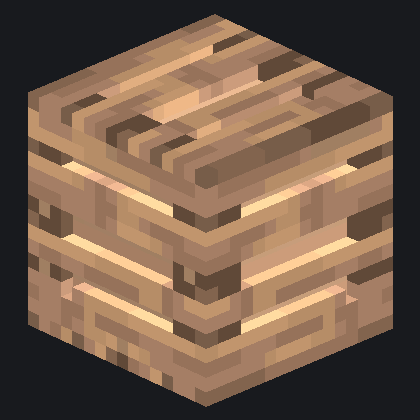
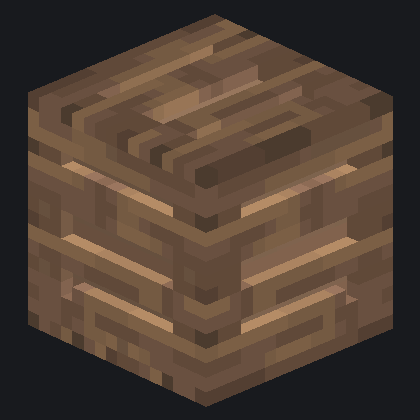
Texture-baked blocks in their own colours, at the texture's own brightness
Planks (oak, spruce), cobble, furnace, crafting table and bookshelf get the
same treatment the oak log got: the tracer reads each voxel's own palette
colour ("colour": "palette") instead of one flat colour per block, and the
bake keeps the texture's own mean (albedo=None) while _delight still lifts
the painted shadow off carved texels.

ALBEDO_TARGET removed: it cited no source, and nothing read its result
until a model was flagged palette (the tracer used the cell colour). Masks
are unchanged; only palettes and the flag. Measured on the cosy cabin
(512 frames, nee 1, mean linear luminance of the accumulated radiance):
within +0.3..+2.3 % of the flat-colour render.

diff --git a/util/claude_models.py b/util/claude_models.py
@@ -166,15 +166,16 @@ def _face_map(face, u, v, d):
 
 LUMW = np.array([0.2126, 0.7152, 0.0722])
 
-# Physical mean albedo per material family, LINEAR (what pathAlbedo
-# produces). Game textures are painted to be DISPLAYED, not to be used
-# as reflectance: raw oak planks linearize to 0.136, about 3x darker
-# than real wood, and interiors are bounce-dominated so that error
-# compounds once per bounce (a 3-bounce corner keeps ~6% of its light).
-ALBEDO_TARGET = {
-    "wood": 0.35, "log": 0.30, "stone": 0.25, "cobble": 0.22,
-    "wool": 0.60, "book": 0.30, "default": 0.32,
-}
+# ALBEDO_TARGET REMOVED (2026-10-09, blockcolour). It was a table of
+# "physical mean albedo per material family" (wood 0.35, log 0.30, stone
+# 0.25, cobble 0.22, book 0.30 ...) that cited no source, and _delight
+# scaled each bake's mean to it. Nothing read the result until a model is
+# flagged "colour": "palette" (until then the tracer gave every fine hit
+# the cell's one colour), and on the first model that was (the oak log) it
+# made the bark pale. Every texture bake now keeps the texture's own mean
+# (albedo=None) and only loses the painted shadow on its carved texels
+# (delight). If a measured reflectance is wanted for a material, pass it
+# as albedo= at that model with its source next to it.
 
 
 def _delight(img, carved, delight=1.0, target=None):
@@ -351,7 +352,7 @@ def model_furnace_baked():
              top=os.path.join(tdir, "default_furnace_top.png"),
              bottom=os.path.join(tdir, "default_furnace_bottom.png")),
         maxdepth=3, emissive_faces=("front",), emit_level=13,
-        albedo=ALBEDO_TARGET["stone"])
+        albedo=None)  # the texture's own mean (see ALBEDO_TARGET REMOVED)
 
 
 def model_crafting_baked():
@@ -363,7 +364,7 @@ def model_crafting_baked():
         dict(front=os.path.join(tdir, "crafting_workbench_front.png"),
              side=os.path.join(tdir, "crafting_workbench_side.png"),
              top=os.path.join(tdir, "crafting_workbench_top.png")),
-        maxdepth=2, albedo=ALBEDO_TARGET["wood"])
+        maxdepth=2, albedo=None)  # the texture's own mean
 
 
 def model_bookshelf_baked():
@@ -510,14 +511,14 @@ def model_planks_oak():
     t = _mcl("ITEMS", "mcl_core", "textures", "default_wood.png")
     return bake_from_tiles("planks_oak_baked",
                            dict(side=t, top=t, bottom=t), maxdepth=1,
-                           albedo=ALBEDO_TARGET["wood"])
+                           albedo=None)  # the texture's own mean
 
 
 def model_planks_spruce():
     t = _mcl("ITEMS", "mcl_core", "textures", "mcl_core_planks_spruce.png")
     return bake_from_tiles("planks_spruce_baked",
                            dict(side=t, top=t, bottom=t), maxdepth=1,
-                           albedo=ALBEDO_TARGET["wood"])
+                           albedo=None)  # the texture's own mean
 
 
 def model_log_oak():
@@ -536,7 +537,7 @@ def model_log_oak():
                       "default_tree_top.png"),
              bottom=_mcl("ITEMS", "mcl_core", "textures",
                          "default_tree_top.png")),
-        # no albedo target (2026-10-09): ALBEDO_TARGET["log"] = 0.30 cites no
+        # no albedo target (2026-10-09): ALBEDO_TARGET["log"] = 0.30 cited no
         # source and made the bark pale; bark measures among the darker barks
         # in visible light (Juola et al. 2022). The texture's own mean, as
         # the plain cube and the ground relief use: only the painted groove
@@ -549,7 +550,7 @@ def model_cobble():
     t = _mcl("ITEMS", "mcl_core", "textures", "default_cobble.png")
     return bake_from_tiles("cobble_baked",
                            dict(side=t, top=t, bottom=t), maxdepth=1,
-                           albedo=ALBEDO_TARGET["cobble"])
+                           albedo=None)  # the texture's own mean
 
 
 # ---- the bake floor: no model may be see-through ---------------------
@@ -847,7 +848,12 @@ PALETTE_COLOUR_MODELS = {"flower_poppy", "flower_dandelion",
                          "flower_allium", "flower_tulip_red",
                          # the bark (2026-10-09): its bake is delit, so the
                          # carved texels are not darkened twice
-                         "log_oak_baked"}
+                         "log_oak_baked",
+                         # the other texture bakes (2026-10-09, blockcolour):
+                         # same reason; one flat colour per block looked fake
+                         "planks_oak_baked", "planks_spruce_baked",
+                         "cobble_baked", "furnace_baked", "crafting_baked",
+                         "bookshelf_baked"}
 
 
 def model_torch_baked():
